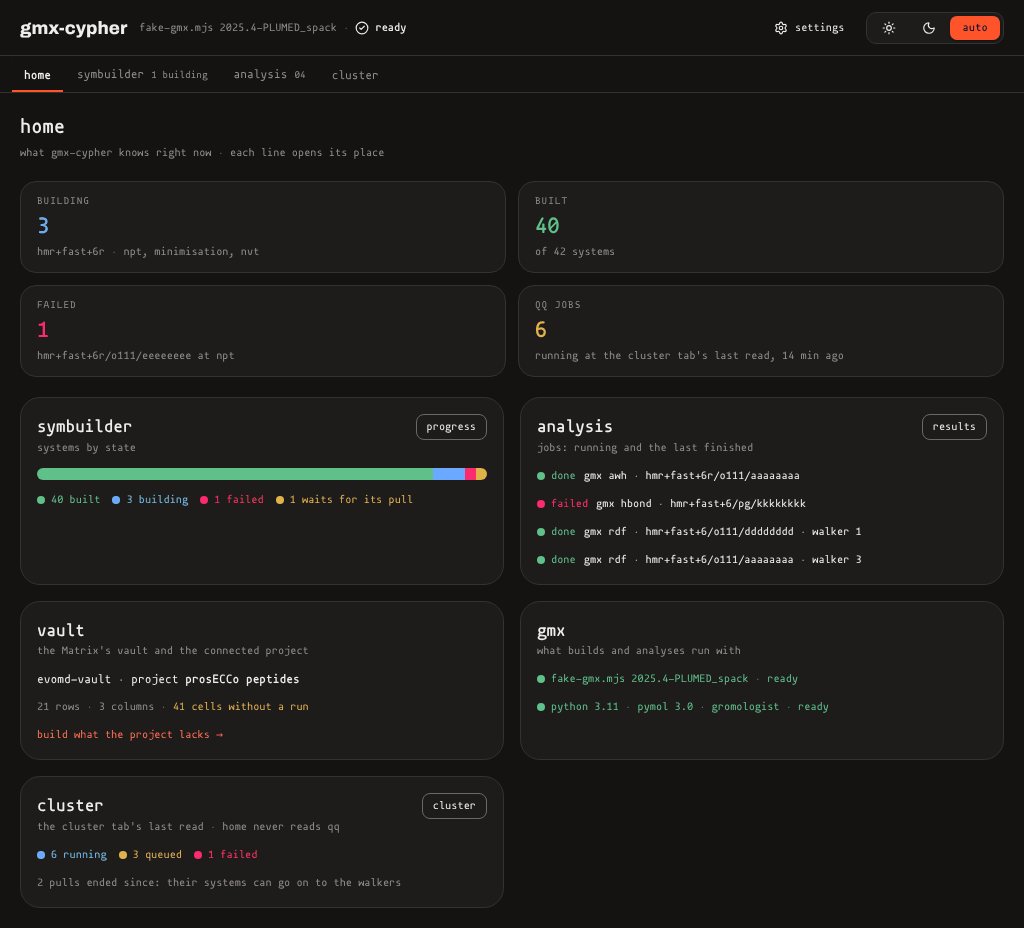
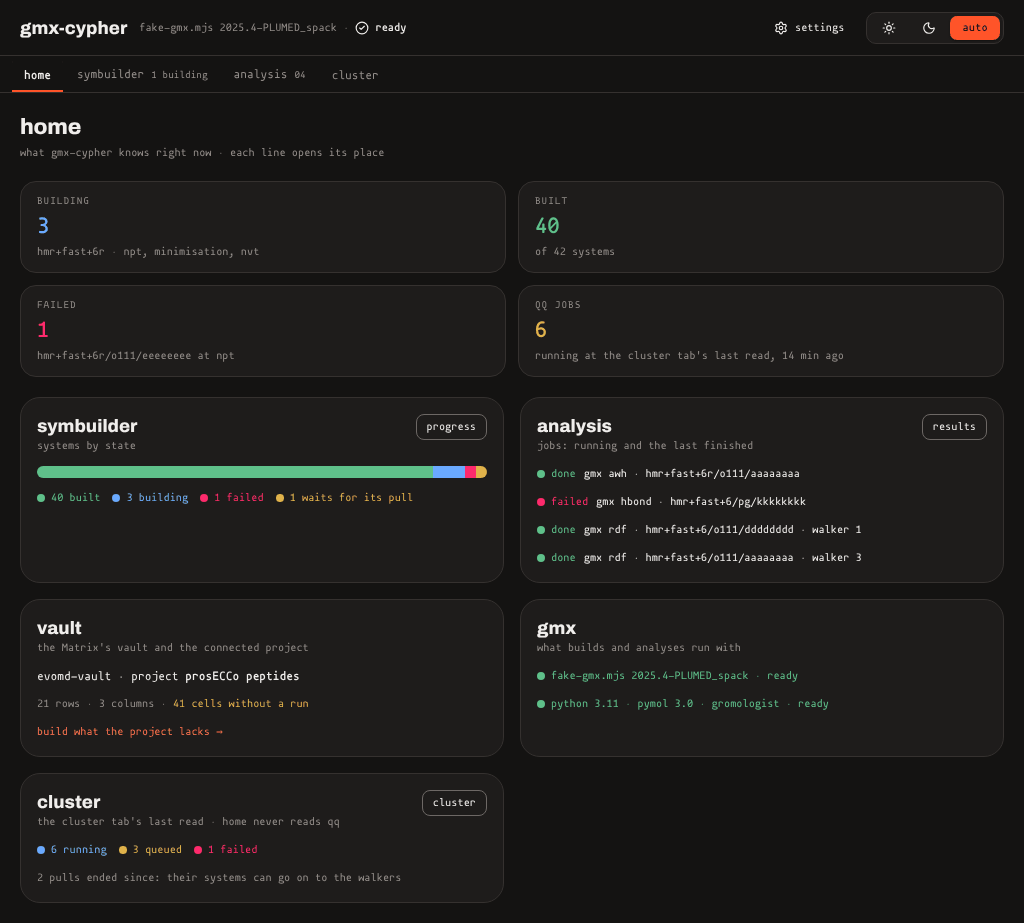
Batch 4 Phase 0: headings in Archivo, the lanes and the pull trace as the mock-up
After your review: page headings and card titles in Archivo; the lanes
drawn as the Run board draws them; progress gains the pull trace with
gmx-cypher's own chart; walker distances as one pill each. The report
answers how failed walkers are rebuilt (question 40), and the backlog
gains a chart theme bug found on the way.

Claude-Session: https://claude.ai/code/session_01KNgtNXWHG42fTwMJjToj2y

diff --git a/docs/batch-4-phase0.md b/docs/batch-4-phase0.md
@@ -115,7 +115,7 @@ Measured here on 2026-11-04: Node 22.23.4, npm 10.9.9, `npm ci` in both apps, th
 | `neutralizing_counts`, `parse_net_charge`, `count_water` | R3b | L `ionCounts`, `netCharge`, `waters` (golden: −3.75 e/10 412 → 33/28; the saved 30/30, 38/30, 30/38) | |
 | `write_pull_script` | R7a | as above | |
 | `quarantine`, `run_system`, `retry_failed` | R6 | L `retryPlan`, `quarantineName`; S moves | `retry_failed` is marked "DOESNT WORK" in the notebook: rebuilt from the spec, not copied |
-| `retry_failed_walkers` | R6 | L `nearestWalker` (golden: the saved "8 (3.0 nm) ← walker 7 (2.5 nm)") | |
+| `retry_failed_walkers` | R6 | L `nearestWalker` (golden: the saved "8 (3.0 nm) ← walker 7 (2.5 nm)") | run once, automatically, right after the walkers are prepared, as your cell does (question 40) |
 | `sol_creation` | R3b, R5b | 13 tiles (§4.1 build view) | differences: questions 22–24 |
 | `minimization`, `eq_nvt`, `eq_npt` | R3b, R5 | one "md stage" tile type, three instances | |
 | `awh`, `pull` | R3b, R7 | tiles; the submit line printed | |
@@ -337,7 +337,7 @@ Throwaway mock-ups in a scratch copy of gmx-cypher (deleted after; only the imag
 | cluster · scripts with the awh script | `mock-cluster-…` | `board-cluster-dark.png` |
 | the other boards, for reference | — | `board-warnings-dark.png`, `board-settings-dark.png`, `board-library-dark.png` |
 
-What I changed after looking at them beside your boards: one coral button per view (systems had two); system names that were cut off in the systems preview; status dots that were the pastel tone and too faint on the light theme (now the strong tone).
+What I changed after looking at them beside your boards: one coral button per view (systems had two); system names that were cut off in the systems preview; status dots that were the pastel tone and too faint on the light theme (now the strong tone). After your review (2026-11-04): page headings and card titles in Archivo (`text-title`, `text-heading`, as the rest of gmx-cypher; data names such as systems and file names stay in mononoki); the lanes drawn as the Run board draws them (separate rounded blocks, staggered, the legend in the same pastel tones); progress gains the pull **trace** beside the pull report, drawn with gmx-cypher's own `SeriesChart` (the target as its dashed rule, start, last, target and frames under it); the walker distances as one pill each, so they wrap instead of overflowing.
 
 ---
 
@@ -396,6 +396,7 @@ Budgets are lines of code (src + server), then lines of tests. "Writes" and "pro
 
 ### R6 Failures, retries, repeats and resume (batch 5)
 
+- **Walkers, as your notebook does them.** Your multiwalker cell prepares every walker, keeps going past one that fails, then calls `retry_failed_walkers()` once in the same cell: each walker without a `.tpr` is moved to `9.multiwalker/failed/{i}_<stamp>/` and prepared again from the `start.gro` of the nearest working walker by distance. The plan does the same automatically, once, as the last part of the walker step (question 40), records for each rebuilt walker its donor and the distance it now starts at (the saved case: walker 8, meant for 3.0 nm, starts from walker 7 at 2.5 nm), and shows it in progress's walker report. A system with no working walker (no `pullx.xvg`, or every walker failed) is not rebuilt; a button tries again.
 - **Change.** L `retryPlan`, `quarantineName`, `nearestWalker`, `hint(text)` (matching "larger than 0.49 times the box size" and "0.5 times half the box size … pbcatom", both real); S moves a failed system folder (only one this gmx-cypher's build record says it created) to `{method}/{carb}/failed/{seq}_<stamp>/` with `FAILED.txt`, and a failed walker to `9.multiwalker/failed/{i}_<stamp>/`; continue / skip / repeat for an existing folder; stages chosen; strict mode.
 - **Budget:** +350, tests +350.
 - **Writes:** `failed/` folders and `FAILED.txt`; **moves** of folders the build created (never deletes).
@@ -522,4 +523,5 @@ Numbers 1–21 are the spec's §7 with my recommendation (the spec's unless I sa
 37. **Rows named differently from their sequence** (§2.2). A built system's PMF would create a new row. (a) R8b flags it in the preview and says to add `{name}` to the folder pattern or rename the row; (b) gmx-cypher names sent files with the row's name. *Recommendation: (a)* now; (b) needs a name in the folder or a lookup the Matrix doesn't do.
 38. **The mock-up's look, app-wide or in SymBuilder only.** Your decision for the mock-up's design changes three contract rules: UI state becomes coral, not ink (§2, T159); status shows as a dot and a word in the tones, not an icon and a word in ink (§4); tones are used for status and for tile categories, not only for groups (§2). (a) App-wide: R1a amends the contract and `roles.json` once, and analysis, results and compare take the coral accent too (their charts keep the group tones); (b) SymBuilder, home and the cluster tab only. *Recommendation: (a)*, because the spec asks for one app, and the screenshots already show the tab bar and set-up with coral. The contrast and "never colour alone" rules stay, and their tests are extended to the new pairs.
 39. **Morpheus's tokens.** gmx-cypher's verbatim copy (`src/tokens.json`) is older than the design system the mock-up uses: coral `#ffb09c` → `#ff5429`, coral-soft and coral-strong changed, and the heat scale. (a) Update the copy in R1a, checking the group-tone and destructive-distance tests (coral is the first group tone, so every coral curve in analysis changes too); (b) keep the old copy. *Recommendation: (a)*, because the mock-up's look depends on it.
+40. **Failed walkers: rebuilt automatically?** Your cell prepares all the walkers, then calls `retry_failed_walkers()` once, then reports. (a) The same, automatically, once, as the last part of the walker step, each rebuilt walker recorded with its donor and the distance it now starts at; a button for another try; (b) only on a button (the mock-up's *rebuild from the nearest walker*). *Recommendation: (a)*, as your notebook does it. It moves the failed walker's folder (question 5's rule: only folders this build made), and the rebuilt walker starts at its donor's distance, which progress and the summary say.
 

diff --git a/docs/roadmap.md b/docs/roadmap.md
@@ -288,4 +288,4 @@ From [`batch-4.md`](batch-4.md) §6: SymBuilder inside gmx-cypher, four tabs (ho
 - Python scripts as tiles (the mock-up's library board), unless question 7 says otherwise.
 - The notebook's plots; the production tile (the notebook has none).
 - Requests for the Matrix and for Morpheus (section 23).
-- Found in Phase 0, not on lines this batch changes: the page has no icon, so Chromium 1243 (the one installed here; Playwright 1.56.1 is pinned) logs a 404 for `/favicon.ico` and 12 of the 14 e2e tests fail on their "no console errors" check (report §1).
+- Found in Phase 0, not on lines this batch changes: the page has no icon, so Chromium 1243 (the one installed here; Playwright 1.56.1 is pinned) logs a 404 for `/favicon.ico` and 12 of the 14 e2e tests fail on their "no console errors" check (report §1). A chart drawn in the page's first render takes the light palette in the dark theme: `usePageTheme` (`src/core/theme.ts`) reads `<html data-theme>` before `App`'s layout effect sets it, and its observer starts after the change (today's result pages escape it because their charts wait for data).
